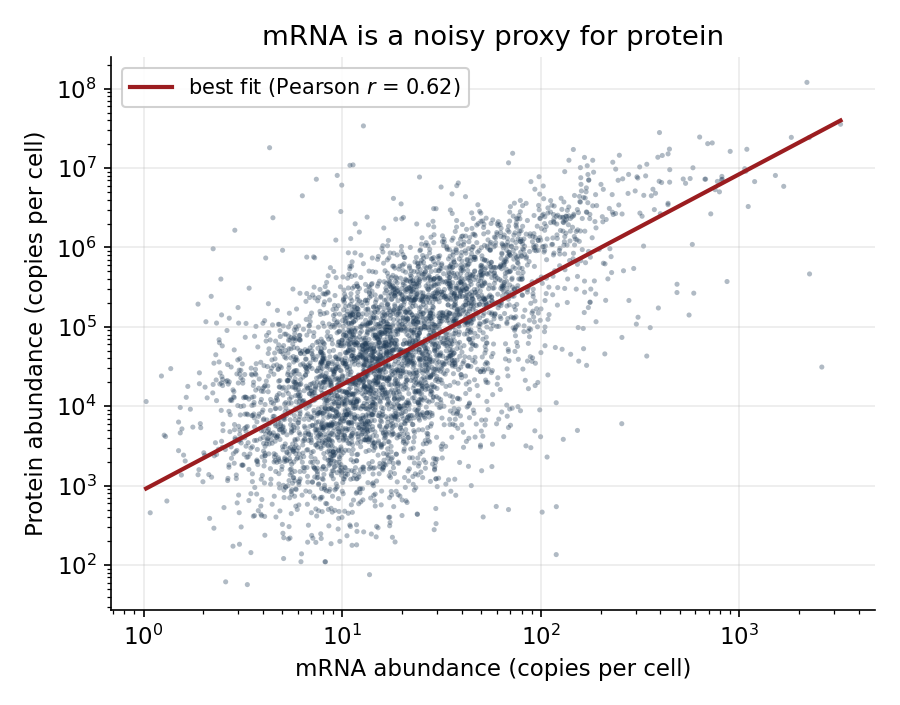
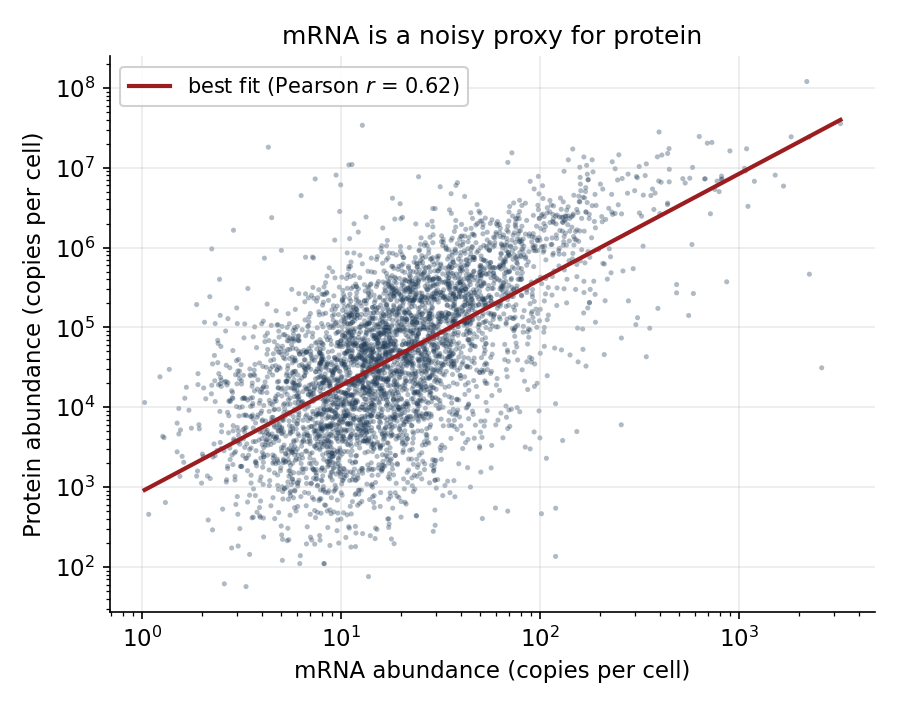
small

diff --git a/site/_sass/include/_utilities.scss b/site/_sass/include/_utilities.scss
@@ -466,9 +466,39 @@ body:hover .visually-hidden button {
    Footnotes
    ========================================================================== */
 
+/* Footnote markers use the traditional typographic sequence (*, †, ‡, §, ‖, ¶,
+   then doubled: **, ††, …) instead of numbers, so a footnote reference is never
+   mistaken for one of the numeric [n] AMA reference citations. The `symbolic`
+   counter system repeats the glyphs once exhausted, so any number of footnotes
+   is handled. */
+@counter-style footnote-symbols {
+  system: symbolic;
+  symbols: "*" "\2020" "\2021" "\A7" "\2016" "\B6";
+  suffix: "";
+}
+
 .footnote {
   color: var(--global-text-color-light);
   text-decoration: none;
+}
+
+/* Inline footnote reference: hide kramdown's numeric label and render the
+   matching symbol via a counter that advances once per reference. */
+.page__content {
+  counter-reset: footnote-marker;
+}
+
+sup[role="doc-noteref"] {
+  counter-increment: footnote-marker;
+
+  a.footnote {
+    font-size: 0;
+
+    &::before {
+      content: counter(footnote-marker, footnote-symbols);
+      font-size: 0.7rem;
+    }
+  }
 }
 
 .footnotes {
@@ -488,6 +518,12 @@ body:hover .visually-hidden button {
 
   ol {
     margin-top: 0;
+    padding-left: 1.5em;
+    list-style-type: footnote-symbols;
+  }
+
+  li::marker {
+    color: var(--global-text-color-light);
   }
 
   ol, li, p {

diff --git a/site/_posts/2026-06-03-genomics-vs-nlp.md b/site/_posts/2026-06-03-genomics-vs-nlp.md
@@ -72,9 +72,9 @@ Two structural problems run underneath these numbers.
 ## How real models approach this
 We've talked a lot about how genetic material can be represented as text for AI models. But what is actually done in practice? Here are a few notable examples.
 - **AlphaFold2** (Jumper et al.<sup><a href="#ref-jumper2021" role="doc-biblioref">21</a></sup>) predicts protein three-dimensional (3D) structure from amino-acid sequence at near-experimental accuracy — arguably the field's defining success. It takes a protein's amino-acid sequence, together with a multiple-sequence alignment of evolutionarily related proteins and any available structural templates, and predicts the 3D coordinates of every atom. The sequence is treated as a string over the fixed 20-letter amino-acid alphabet — each residue is mapped to a learned embedding rather than an arbitrary text token — and much of the biological signal comes from the MSA, whose column-wise evolutionary covariation encodes which residues are likely to contact one another in 3D. Protein folding is a problem that possesses multiple attributes that make it an ideal candidate for AI. The 3D structure depends entirely on the discrete amino acid sequence itself, without dependencies from other parts of the genome or cell state broadly. There are over 200,000 experimentally determined protein structures with resolved amino-acid sequences across humans and model organisms <sup><a href="#ref-berman2000" role="doc-biblioref">22</a></sup>, representing a dataset that is large enough for supervised learning. And amino acids have biochemical properties that enable logical verification of predicted results to an extent.
-- **Enformer** (Avsec et al.<sup><a href="#ref-avsec2021" role="doc-biblioref">23</a></sup>) and **AlphaGenome** (DeepMind, 2025<sup><a href="#ref-avsec2025" role="doc-biblioref">24</a></sup>) attack the *cis*-regulatory problem head-on, predicting expression and chromatin readouts from sequence across ~200 kilobases and up to 1 megabase windows respectively. They are the state of the art on long-range *cis* effects — and structurally blind to *trans* regulation that acts through diffusible proteins or other chromosomes. Both take a one-hot-encoded DNA sequence — a long genomic window centered on the region of interest — and predict thousands of functional genomic and epigenomic tracks (expression, chromatin accessibility, histone marks, and more) along that window. Here the alphabet is simply the four DNA bases (A/C/G/T): each position becomes a 4-dimensional one-hot vector, so — unlike a text model with a learned subword vocabulary — there is no tokenization step at all, and biology enters through the fixed base alphabet and the reverse-complement symmetry the architectures are built to respect (a sequence and its complementary strand should give the same prediction). 
-- **DNABERT** (Ji et al.<sup><a href="#ref-ji2021" role="doc-biblioref">25</a></sup>), the **Nucleotide Transformer** (Dalla-Torre et al.<sup><a href="#ref-dallatorre2024" role="doc-biblioref">26</a></sup>), and **Evo** (Nguyen et al.<sup><a href="#ref-nguyen2024" role="doc-biblioref">27</a></sup>) are DNA "language models" — masked or autoregressive pre-training over genomic sequence, transferred to downstream tasks. Each tokenizes raw nucleotide sequence — overlapping k-mers for DNABERT, fixed non-overlapping k-mer tokens for the Nucleotide Transformer, and single-nucleotide (byte-level) tokens for Evo — and learns representations by predicting masked or next tokens over large genomic corpora. The vocabulary is built from the four nucleotides rather than natural-language words, and the differing tokenizations are attempts to package that four-letter alphabet into biologically meaningful units: k-mers approximate short motifs or codon-like chunks, while single-base tokens keep every nucleotide addressable at the cost of longer sequences. 
-- **scGPT** (Cui et al.<sup><a href="#ref-cui2024" role="doc-biblioref">28</a></sup>) and **Geneformer** (Theodoris et al.<sup><a href="#ref-theodoris2023" role="doc-biblioref">29</a></sup>) bring the foundation-model recipe to single-cell transcriptomics, learning representations of cell state from large RNA-expression atlases. These approaches do not take in raw sequencing reads as input, but rather the processed count matrices. Consequently the "alphabet" is not sequence at all but the roughly 20,000 genes — each gene is a token, and its expression level is encoded either by binning the count into discrete value tokens (scGPT) or by ranking genes from most to least expressed within a cell (Geneformer), so the biology is carried by which genes are on and their relative levels rather than by any letter sequence.
+- **Enformer**<sup><a href="#ref-avsec2021" role="doc-biblioref">23</a></sup> and **AlphaGenome** <sup><a href="#ref-avsec2025" role="doc-biblioref">24</a></sup> attack the *cis*-regulatory problem head-on, predicting expression and chromatin readouts from sequence across ~200 kilobases and up to 1 megabase windows respectively. They are the state of the art on long-range *cis* effects — and structurally blind to *trans* regulation that acts through diffusible proteins or other chromosomes. Both take a one-hot-encoded DNA sequence — a long genomic window centered on the region of interest — and predict thousands of functional genomic and epigenomic tracks (expression, chromatin accessibility, histone marks, and more) along that window. Here the alphabet is simply the four DNA bases (A/C/G/T): each position becomes a 4-dimensional one-hot vector, so — unlike a text model with a learned subword vocabulary — there is no tokenization step at all, and biology enters through the fixed base alphabet and the reverse-complement symmetry the architectures are built to respect (a sequence and its complementary strand should give the same prediction). 
+- **DNABERT**<sup><a href="#ref-ji2021" role="doc-biblioref">25</a></sup>, the **Nucleotide Transformer**<sup><a href="#ref-dallatorre2024" role="doc-biblioref">26</a></sup>, and **Evo**<sup><a href="#ref-nguyen2024" role="doc-biblioref">27</a></sup> are DNA "language models" — masked or autoregressive pre-training over genomic sequence, transferred to downstream tasks. Each tokenizes raw nucleotide sequence — overlapping k-mers for DNABERT, fixed non-overlapping k-mer tokens for the Nucleotide Transformer, and single-nucleotide (byte-level) tokens for Evo — and learns representations by predicting masked or next tokens over large genomic corpora. The vocabulary is built from the four nucleotides rather than natural-language words, and the differing tokenizations are attempts to package that four-letter alphabet into biologically meaningful units: k-mers approximate short motifs or codon-like chunks, while single-base tokens keep every nucleotide addressable at the cost of longer sequences. 
+- **scGPT**<sup><a href="#ref-cui2024" role="doc-biblioref">28</a></sup> and **Geneformer**<sup><a href="#ref-theodoris2023" role="doc-biblioref">29</a></sup> bring the foundation-model recipe to single-cell transcriptomics, learning representations of cell state from large RNA-expression atlases. These approaches do not take in raw sequencing reads as input, but rather the processed count matrices. Consequently the "alphabet" is not sequence at all but the roughly 20,000 genes — each gene is a token, and its expression level is encoded either by binning the count into discrete value tokens (scGPT) or by ranking genes from most to least expressed within a cell (Geneformer), so the biology is carried by which genes are on and their relative levels rather than by any letter sequence.
 
 ## Conclusion
 There have been exciting developments in genomics AI, and there is much to be done moving forward. ~40% of variants in cancer cases are still classified as variants of unknown significance <sup><a href="#ref-mellgard2024" role="doc-biblioref">30</a></sup>. When analyzing a cancer patient's mutations, it is still often impossible to distinguish the driver mutation from passenger mutations. The role of genomics outside of cancer and well-characterized genes characterized by single mutation/gene events is minimal in clinical practice. A single human scRNA-seq experiment often has thousands of cells, and tens of thousands of genes. In an atlas comprised of dozens or hundreds of datasets, there can be millions of cells, with various sources of batch effects. Continuing to develop models that can make sense of these data will be critical for advancing genomics research.

diff --git a/posts/2026-06-03-genomics-vs-nlp/main.md b/posts/2026-06-03-genomics-vs-nlp/main.md
@@ -79,9 +79,9 @@ Two structural problems run underneath these numbers.
 ## How real models approach this
 We've talked a lot about how genetic material can be represented as text for AI models. But what is actually done in practice? Here are a few notable examples.
 - **AlphaFold2** (Jumper et al.[@jumper2021]) predicts protein three-dimensional (3D) structure from amino-acid sequence at near-experimental accuracy — arguably the field's defining success. It takes a protein's amino-acid sequence, together with a multiple-sequence alignment of evolutionarily related proteins and any available structural templates, and predicts the 3D coordinates of every atom. The sequence is treated as a string over the fixed 20-letter amino-acid alphabet — each residue is mapped to a learned embedding rather than an arbitrary text token — and much of the biological signal comes from the MSA, whose column-wise evolutionary covariation encodes which residues are likely to contact one another in 3D. Protein folding is a problem that possesses multiple attributes that make it an ideal candidate for AI. The 3D structure depends entirely on the discrete amino acid sequence itself, without dependencies from other parts of the genome or cell state broadly. There are over 200,000 experimentally determined protein structures with resolved amino-acid sequences across humans and model organisms [@berman2000], representing a dataset that is large enough for supervised learning. And amino acids have biochemical properties that enable logical verification of predicted results to an extent.
-- **Enformer** (Avsec et al.[@avsec2021]) and **AlphaGenome** (DeepMind, 2025[@avsec2025]) attack the *cis*-regulatory problem head-on, predicting expression and chromatin readouts from sequence across ~200 kilobases and up to 1 megabase windows respectively. They are the state of the art on long-range *cis* effects — and structurally blind to *trans* regulation that acts through diffusible proteins or other chromosomes. Both take a one-hot-encoded DNA sequence — a long genomic window centered on the region of interest — and predict thousands of functional genomic and epigenomic tracks (expression, chromatin accessibility, histone marks, and more) along that window. Here the alphabet is simply the four DNA bases (A/C/G/T): each position becomes a 4-dimensional one-hot vector, so — unlike a text model with a learned subword vocabulary — there is no tokenization step at all, and biology enters through the fixed base alphabet and the reverse-complement symmetry the architectures are built to respect (a sequence and its complementary strand should give the same prediction). 
-- **DNABERT** (Ji et al.[@ji2021]), the **Nucleotide Transformer** (Dalla-Torre et al.[@dallatorre2024]), and **Evo** (Nguyen et al.[@nguyen2024]) are DNA "language models" — masked or autoregressive pre-training over genomic sequence, transferred to downstream tasks. Each tokenizes raw nucleotide sequence — overlapping k-mers for DNABERT, fixed non-overlapping k-mer tokens for the Nucleotide Transformer, and single-nucleotide (byte-level) tokens for Evo — and learns representations by predicting masked or next tokens over large genomic corpora. The vocabulary is built from the four nucleotides rather than natural-language words, and the differing tokenizations are attempts to package that four-letter alphabet into biologically meaningful units: k-mers approximate short motifs or codon-like chunks, while single-base tokens keep every nucleotide addressable at the cost of longer sequences. 
-- **scGPT** (Cui et al.[@cui2024]) and **Geneformer** (Theodoris et al.[@theodoris2023]) bring the foundation-model recipe to single-cell transcriptomics, learning representations of cell state from large RNA-expression atlases. These approaches do not take in raw sequencing reads as input, but rather the processed count matrices. Consequently the "alphabet" is not sequence at all but the roughly 20,000 genes — each gene is a token, and its expression level is encoded either by binning the count into discrete value tokens (scGPT) or by ranking genes from most to least expressed within a cell (Geneformer), so the biology is carried by which genes are on and their relative levels rather than by any letter sequence.
+- **Enformer**[@avsec2021] and **AlphaGenome** [@avsec2025] attack the *cis*-regulatory problem head-on, predicting expression and chromatin readouts from sequence across ~200 kilobases and up to 1 megabase windows respectively. They are the state of the art on long-range *cis* effects — and structurally blind to *trans* regulation that acts through diffusible proteins or other chromosomes. Both take a one-hot-encoded DNA sequence — a long genomic window centered on the region of interest — and predict thousands of functional genomic and epigenomic tracks (expression, chromatin accessibility, histone marks, and more) along that window. Here the alphabet is simply the four DNA bases (A/C/G/T): each position becomes a 4-dimensional one-hot vector, so — unlike a text model with a learned subword vocabulary — there is no tokenization step at all, and biology enters through the fixed base alphabet and the reverse-complement symmetry the architectures are built to respect (a sequence and its complementary strand should give the same prediction). 
+- **DNABERT**[@ji2021], the **Nucleotide Transformer**[@dallatorre2024], and **Evo**[@nguyen2024] are DNA "language models" — masked or autoregressive pre-training over genomic sequence, transferred to downstream tasks. Each tokenizes raw nucleotide sequence — overlapping k-mers for DNABERT, fixed non-overlapping k-mer tokens for the Nucleotide Transformer, and single-nucleotide (byte-level) tokens for Evo — and learns representations by predicting masked or next tokens over large genomic corpora. The vocabulary is built from the four nucleotides rather than natural-language words, and the differing tokenizations are attempts to package that four-letter alphabet into biologically meaningful units: k-mers approximate short motifs or codon-like chunks, while single-base tokens keep every nucleotide addressable at the cost of longer sequences. 
+- **scGPT**[@cui2024] and **Geneformer**[@theodoris2023] bring the foundation-model recipe to single-cell transcriptomics, learning representations of cell state from large RNA-expression atlases. These approaches do not take in raw sequencing reads as input, but rather the processed count matrices. Consequently the "alphabet" is not sequence at all but the roughly 20,000 genes — each gene is a token, and its expression level is encoded either by binning the count into discrete value tokens (scGPT) or by ranking genes from most to least expressed within a cell (Geneformer), so the biology is carried by which genes are on and their relative levels rather than by any letter sequence.
 
 ## Conclusion
 There have been exciting developments in genomics AI, and there is much to be done moving forward. ~40% of variants in cancer cases are still classified as variants of unknown significance [@mellgard2024]. When analyzing a cancer patient's mutations, it is still often impossible to distinguish the driver mutation from passenger mutations. The role of genomics outside of cancer and well-characterized genes characterized by single mutation/gene events is minimal in clinical practice. A single human scRNA-seq experiment often has thousands of cells, and tens of thousands of genes. In an atlas comprised of dozens or hundreds of datasets, there can be millions of cells, with various sources of batch effects. Continuing to develop models that can make sense of these data will be critical for advancing genomics research.
